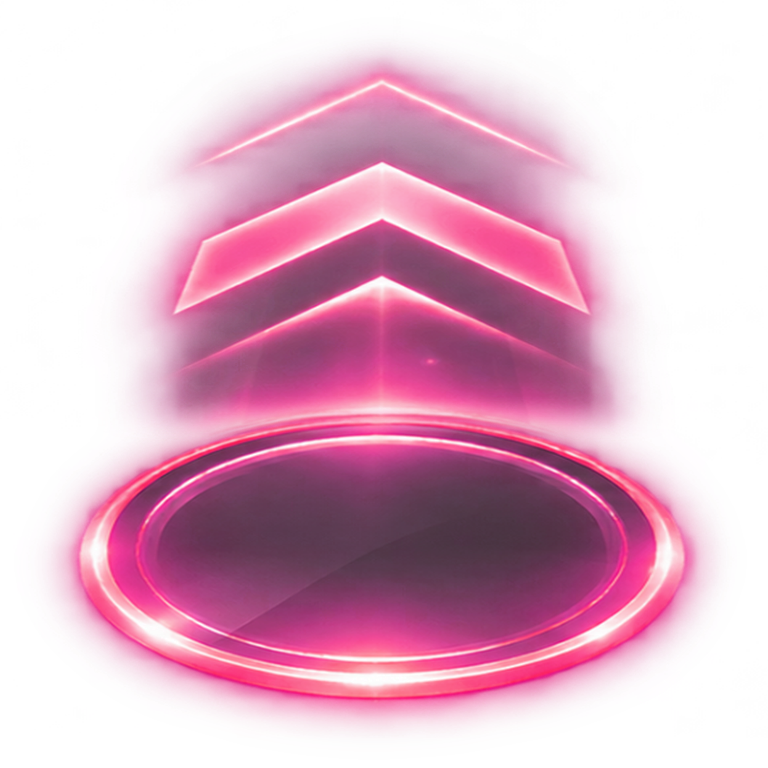
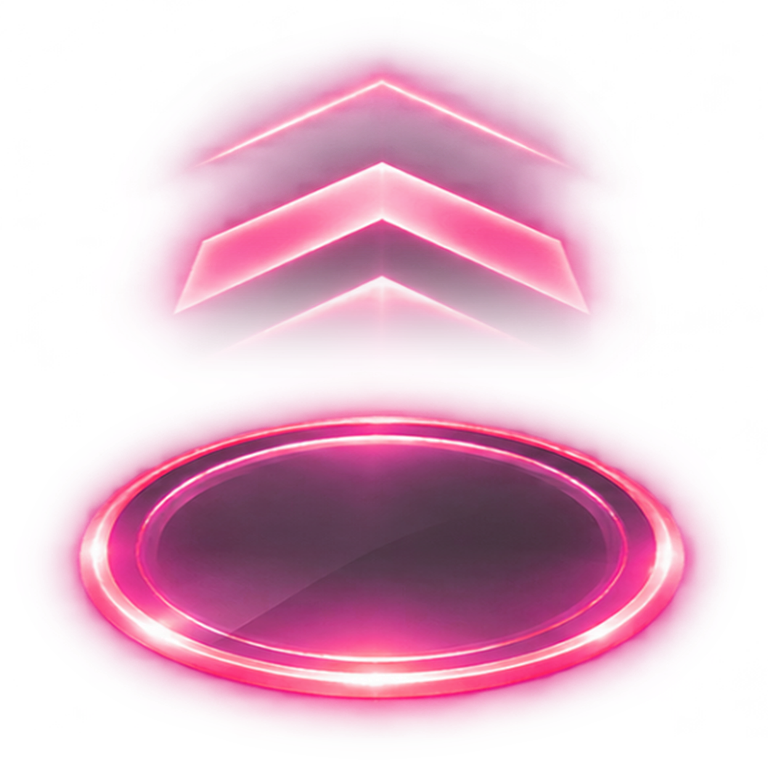
Dissolve the bottom of SYNK mode's flick chevrons instead of ending on a hard shelf

Changed region(s): [[0.1562, 0.3125, 0.8438, 0.5625]]

diff --git a/tools/make_synk_mode_art.py b/tools/make_synk_mode_art.py
@@ -135,6 +135,10 @@ def notes():
             save(recolour(rgb, turn), a, OUT / f"{prefix}{i}.png")
 
 
+# How far above the ring's top edge (source px) the flick's chevron stack starts to thin out.
+FLICK_FADE = 150
+
+
 def flick():
     """Six flick frames in the original flick's 768 px layout (disc 623 px wide, outline
     centred at y=558.5): the ring, with the supplied chevrons rising out of it frame by
@@ -148,10 +152,11 @@ def flick():
     # The chevrons are what the flick art has beyond the plain ring.
     a_flick = np.asarray(art).astype(float) / 255
     chevrons = a_flick.copy()
-    # Keep the art above the ring's top edge and fade it out just inside the ring, so the
-    # chevrons seem to rise out of it without doubling the ring's own rim.
+    # Keep the art above the ring's top edge. Below the lowest chevron the glassy column
+    # thins out gradually and is gone before the ring, so the stack dissolves into the
+    # ring's glow instead of stopping on a hard shelf.
     rows = np.arange(art.height)[:, None]
-    chevrons[..., 3] = a_flick[..., 3] * smooth(ring_box[1] + 34, ring_box[1] - 6, rows)
+    chevrons[..., 3] = a_flick[..., 3] * smooth(ring_box[1] - 4, ring_box[1] - FLICK_FADE, rows) ** 1.5
     chevron_img = Image.fromarray(np.clip(chevrons * 255 + .5, 0, 255).astype(np.uint8), "RGBA")
     # Same width scale as the ring; a little less tall so the stack fits the frame.
     sx = (disc[2] - disc[0]) / (ring_box[2] - ring_box[0])
